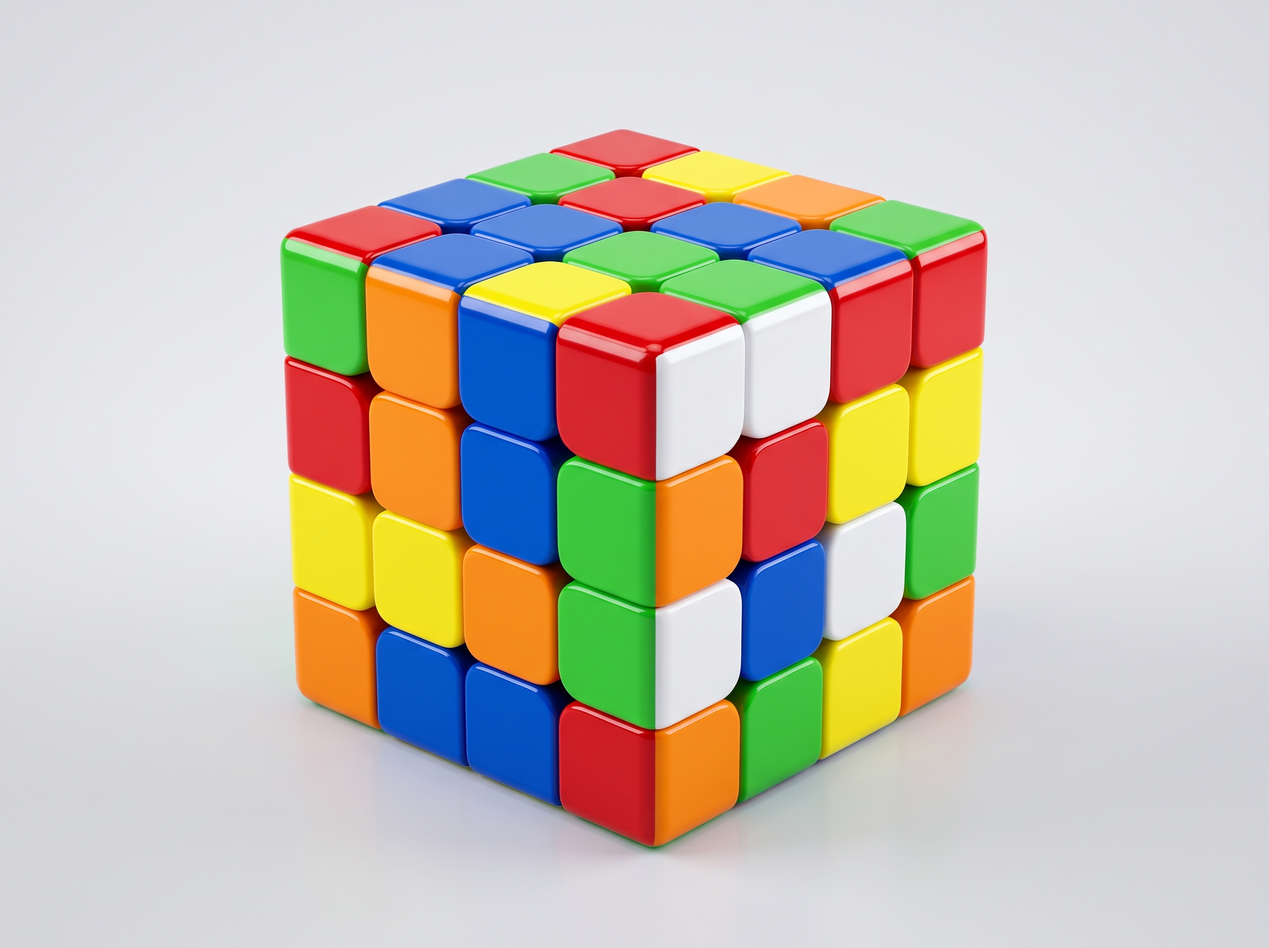
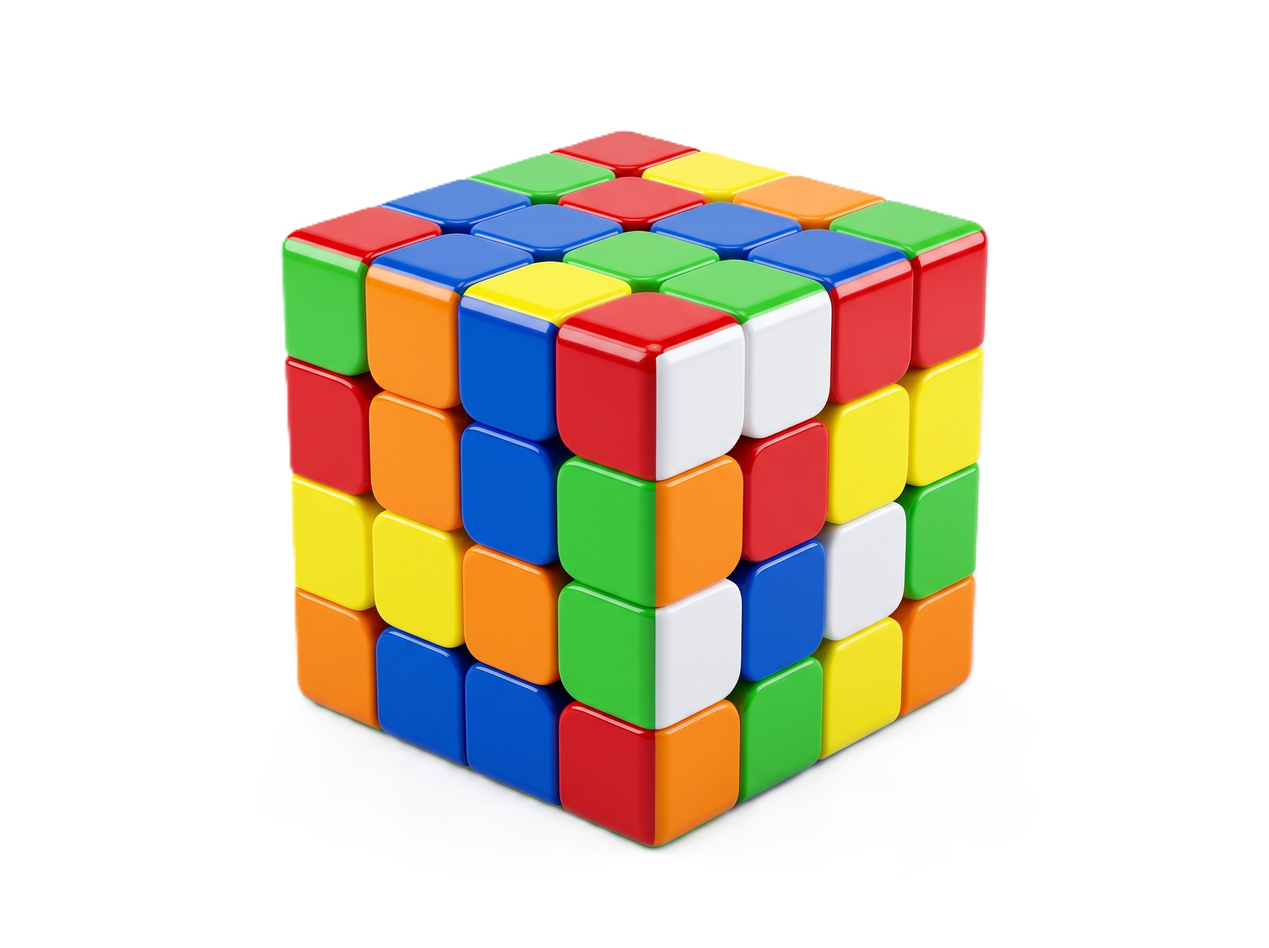
suprimier l'arriére plan des images et enlever le coupage

diff --git a/cubes.html b/cubes.html
@@ -42,7 +42,7 @@
 
                 <div class="carte_cube 2X2">
                     <div class="photo_cube">
-                        <p><img src="images/2x2.jpg"></p>
+                        <p ><img class="img_dezoom" src="images/2x2.jpg"></p>
                     </div>
                     <h4 class="nom_cube">2X2</h4>
                     <p class="texte_cube">Seulement 8 pièces. Parfait pour débuter.</p>
@@ -50,7 +50,7 @@
 
                 <div class="carte_cube 4X4">
                     <div class="photo_cube">
-                        <p><img src="images/4x4.jpg"></p>
+                        <p><img class="img_dezoom" src="images/4x4.jpg"></p>
                     </div>
                     <h4 class="nom_cube">4X4</h4>
                     <p class="texte_cube">Pas de centres fixes : il faut d'abord les assembler.</p>
@@ -58,7 +58,7 @@
 
                 <div class="carte_cube Megaminx">
                     <div class="photo_cube">
-                        <p><img src="images/Megaminx.jpg"></p>
+                        <p><img class="img_dezoom" src="images/Megaminx.jpg"></p>
                     </div>
                     <h4 class="nom_cube">Megaminx</h4>
                     <p class="texte_cube">Un dodécaèdre à 12 faces de 5 côtés.</p>
@@ -66,7 +66,7 @@
 
                 <div class="carte_cube Pyraminx">
                     <div class="photo_cube">
-                        <p><img src="images/Pyraminx.jpg"></p>
+                        <p ><img class="img_dezoom" src="images/Pyraminx.jpg"></p>
                     </div>
                     <h4 class="nom_cube">Pyraminx</h4>
                     <p class="texte_cube">Une pyramide à 4 faces. Très rapide à résoudre.</p>
@@ -74,7 +74,7 @@
 
                 <div class="carte_cube Skewb">
                     <div class="photo_cube">
-                        <p><img src="images/Skewb.jpg"></p>
+                        <p><img class="img_dezoom" src="images/Skewb.jpg"></p>
                     </div>
                     <h4 class="nom_cube">Skewb</h4>
                     <p class="texte_cube">Il tourne autour de ses coins au lieu de ses faces.</p>
@@ -82,7 +82,7 @@
 
                 <div class="carte_cube Square-1">
                     <div class="photo_cube">
-                        <p><img src="images/Square-1.jpg"></p>
+                        <p ><img class="img_dezoom" src="images/Square-1.jpg"></p>
                     </div>
                     <h4 class="nom_cube">Square-1</h4>
                     <p class="texte_cube">Sa forme change pendant qu'on le tourne.</p>

diff --git a/style.css b/style.css
@@ -613,5 +613,9 @@ Je la fait pour le h2 aussi, car dans mon htlm acceuil n'est pas un a */
     margin: 0;
 }
 
+.photo_cube .img_dezoom {
+    object-fit: contain; /* aide à ce que l'image ne soit pas coupée  */
+    background-color: #ffffff;
+}
 
 /* <------------------------------Fin cubes.html-------------------------------------------> */
